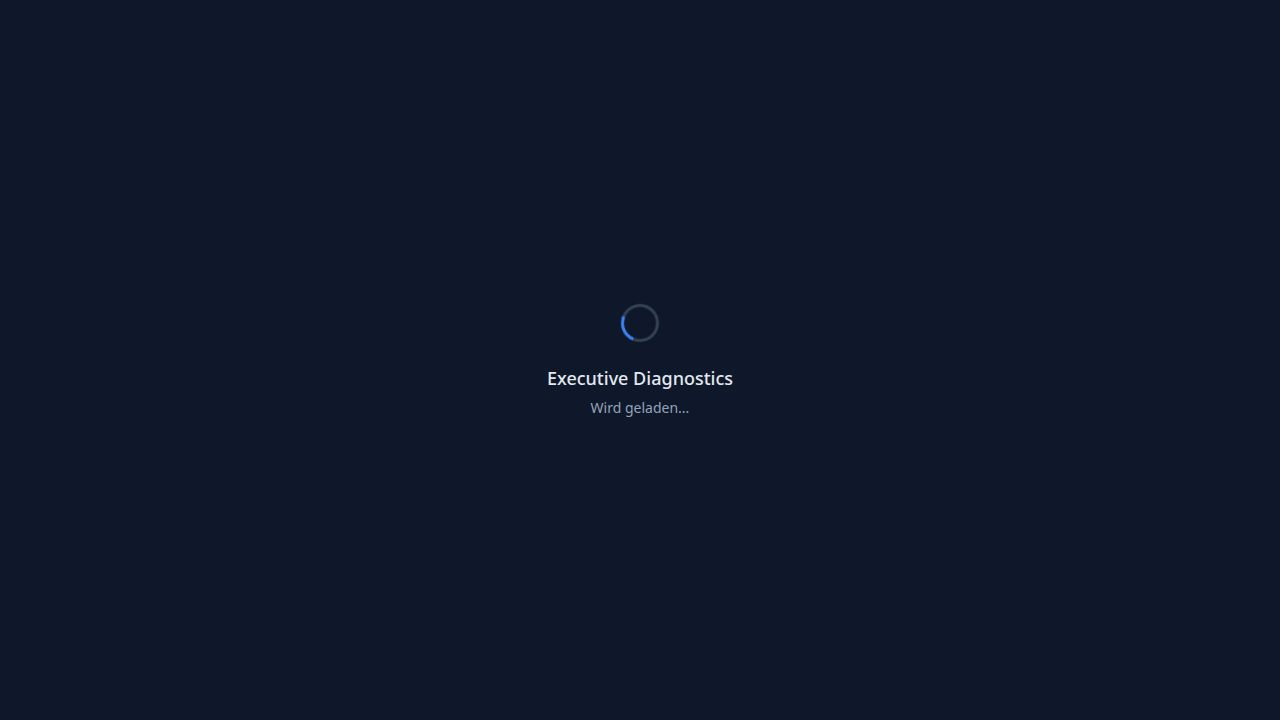
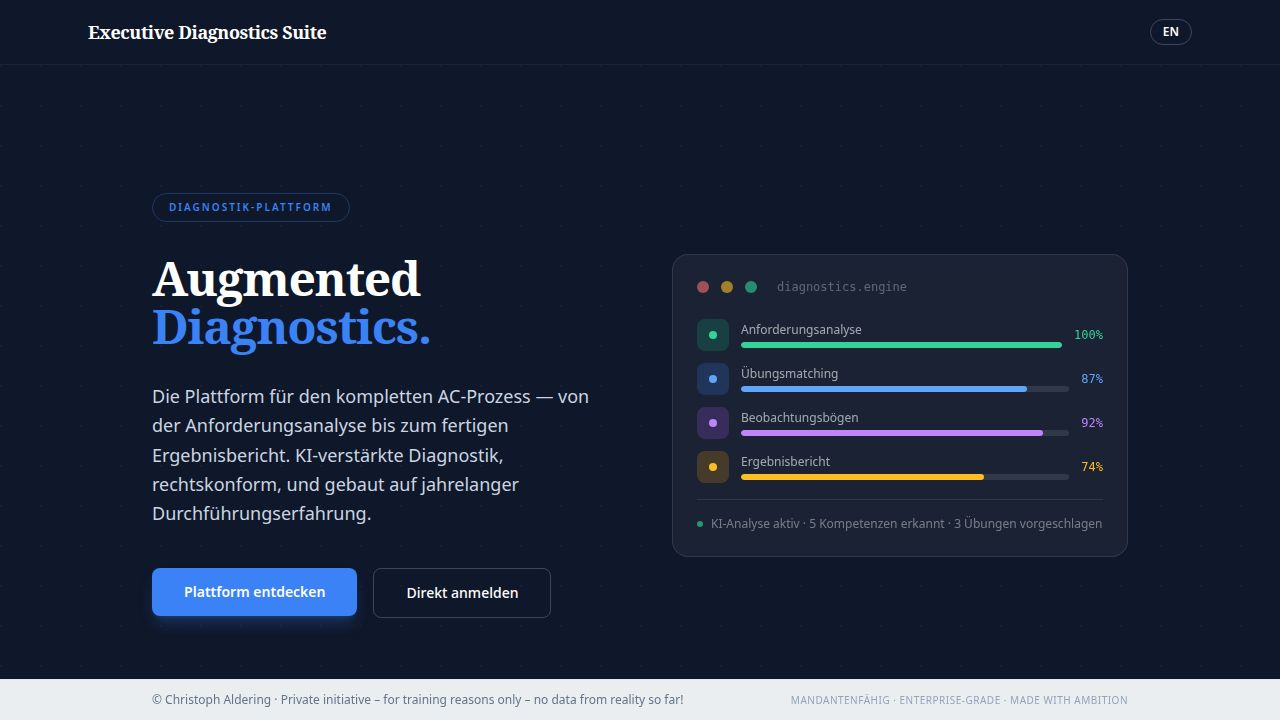
Published your App
Replit-Commit-Author: Deployment
Replit-Commit-Session-Id: 53538e41-8d19-448f-86cf-f1429fb24e45
Replit-Commit-Checkpoint-Type: full_checkpoint
Replit-Commit-Event-Id: 6cd4913b-c2c9-42a5-91c4-7a90c7b0b3e4
Replit-Commit-Screenshot-Url: https://storage.googleapis.com/screenshot-production-us-central1/6e473707-a8ab-4964-bee8-168d25ac512a/53538e41-8d19-448f-86cf-f1429fb24e45/N6rJGFU
Replit-Commit-Deployment-Build-Id: 1c81d093-8a74-4733-91ed-bc76c4553be0
Replit-Helium-Checkpoint-Created: true

diff --git a/app/landing/page.tsx b/app/landing/page.tsx
@@ -9,13 +9,6 @@ type Lang = "de" | "en";
 
 const t = {
   de: {
-    navProcess: "Unser Prozess",
-    navExercises: "\u00dcbungsbibliothek",
-    navCaseStudies: "Fallstudien",
-    navCandidates: "Kandidatenportal",
-    navFrameworks: "Frameworks",
-    navTour: "Produkt-Tour",
-    navLogin: "Anmelden",
     heroBadge: "Diagnostik-Plattform",
     heroTitle1: "Augmented",
     heroTitle2: "Diagnostics.",
@@ -223,13 +216,6 @@ const t = {
     footerSub: "Mandantenf\u00e4hig \u00b7 Enterprise-Grade \u00b7 Made with ambition",
   },
   en: {
-    navProcess: "Our Process",
-    navExercises: "Exercise Library",
-    navCaseStudies: "Case Studies",
-    navCandidates: "Candidate Portal",
-    navFrameworks: "Frameworks",
-    navTour: "Product Tour",
-    navLogin: "Sign In",
     heroBadge: "Diagnostics Platform",
     heroTitle1: "Augmented",
     heroTitle2: "Diagnostics.",
@@ -576,10 +562,6 @@ export default function LandingPage() {
     setCandidateEmail("");
     setCandidatePassword("");
     setError("");
-  };
-
-  const scrollToLogin = () => {
-    loginRef.current?.scrollIntoView({ behavior: "smooth" });
   };
 
   const processSteps = [
@@ -1166,23 +1148,18 @@ export default function LandingPage() {
             <>
               <div className="grid grid-cols-1 md:grid-cols-3 gap-6 max-w-4xl mx-auto">
                 {accessCards.map((card) => (
-                  <button
+                  <div
                     key={card.id}
-                    onClick={() => { setActiveMode(card.id); setError(""); }}
-                    className="group bg-white rounded-2xl border border-slate-200 p-6 text-left transition-all hover:shadow-xl hover:-translate-y-1 hover:border-slate-300 focus:outline-none focus:ring-2 focus:ring-offset-2 focus:ring-blue-500"
-                    data-testid={`button-access-${card.id}`}
+                    className="bg-white rounded-2xl border border-slate-200 p-6 text-left"
+                    data-testid={`card-access-${card.id}`}
                   >
                     <div className={`w-12 h-12 rounded-xl bg-gradient-to-br ${card.gradient} text-white flex items-center justify-center mb-4`}>
                       <svg className="w-6 h-6" fill="none" viewBox="0 0 24 24" strokeWidth={1.5} stroke="currentColor"><path strokeLinecap="round" strokeLinejoin="round" d={card.icon} /></svg>
                     </div>
-                    <h3 className="text-lg font-bold text-slate-800 group-hover:text-slate-900 font-serif">{card.title}</h3>
+                    <h3 className="text-lg font-bold text-slate-800 font-serif">{card.title}</h3>
                     <p className="text-xs font-medium text-slate-400 uppercase tracking-wider mt-0.5">{card.subtitle}</p>
                     <p className="text-sm text-slate-500 mt-3 leading-relaxed">{card.description}</p>
-                    <div className="mt-4 flex items-center text-sm font-medium text-blue-600 group-hover:text-blue-700">
-                      {l.loginBtn}
-                      <svg className="w-4 h-4 ml-1 transition-transform group-hover:translate-x-1" fill="none" viewBox="0 0 24 24" strokeWidth={2} stroke="currentColor"><path strokeLinecap="round" strokeLinejoin="round" d="M13.5 4.5L21 12m0 0l-7.5 7.5M21 12H3" /></svg>
-                    </div>
-                  </button>
+                  </div>
                 ))}
               </div>
 